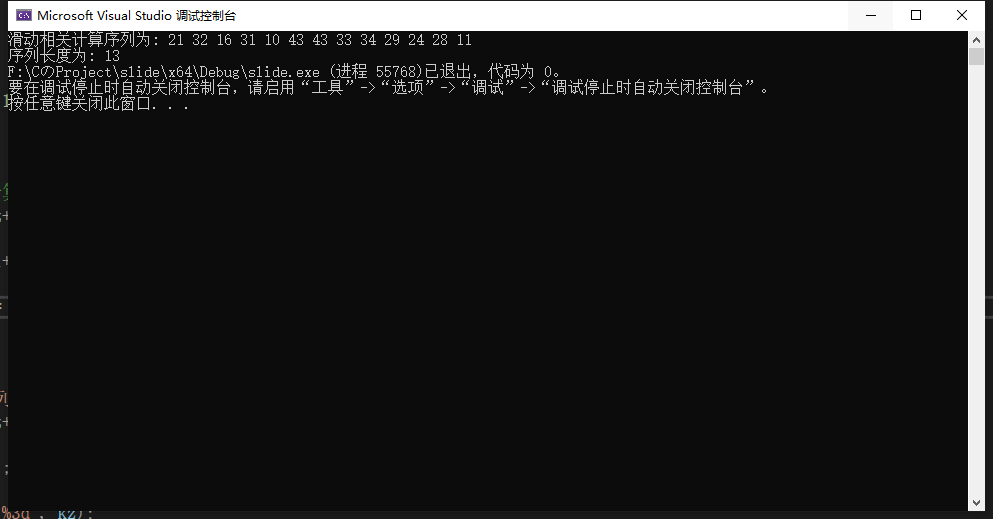
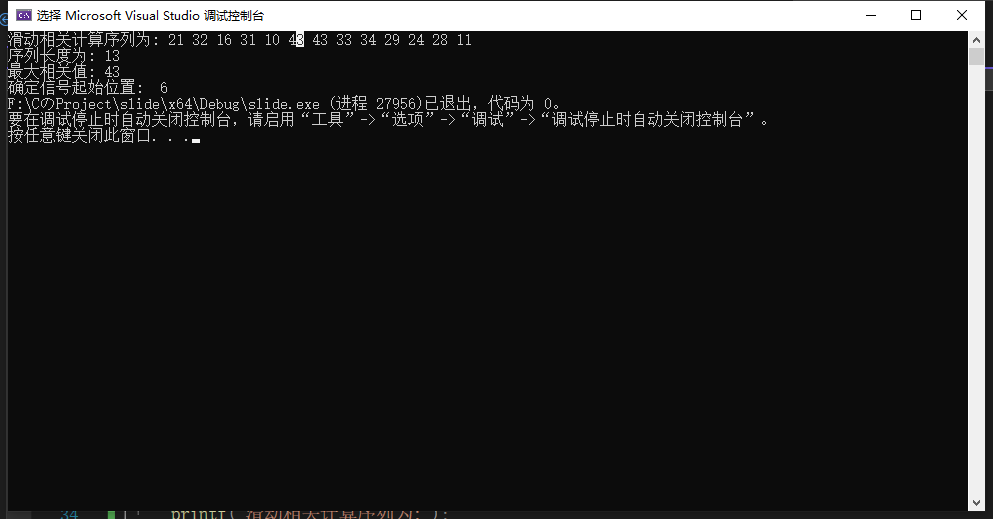
20220907

diff --git a/source/_posts/通信软件基础——滑动相关检测.md b/source/_posts/通信软件基础——滑动相关检测.md
@@ -37,6 +37,8 @@ comment: ture
 + $1×4+2×6+0×3+4×4=32$
 + 以此类推得到$n-m+1$长度的信号序列$z[k]$
 
+最后找出最大值及其位置也就是确定信号的起始位置。
+
 其算法C语言展现如下：（非最优）
 
 ```c
@@ -57,6 +59,8 @@ int main(void)
 	int i = 0;
 	int j = 0;
 	int kz = 0;//滑动相关计算序列哨兵
+	int max = 0;
+	int maxpos = 0;//确定型号的起始位置，也就是最大值的位置
 	for (kz = 0; kz < k; kz++)
 	{
 		for (i = 0; i < m;i++)
@@ -64,13 +68,21 @@ int main(void)
 			Z[kz] += X[i] * Y[i+j];
 		}
 		j++;
+		if (Z[kz] >= max)
+		{
+			max = Z[kz];
+			maxpos = kz;
+		}
 	}
+
 	printf("滑动相关计算序列为:");
 	for (kz = 0; kz < k; kz++)
 	{
 		printf("%3d",Z[kz]);
 	}
 	printf("\r\n序列长度为:%3d", kz);
+	printf("\r\n最大相关值:%3d", max);
+	printf("\r\n确定信号起始位置:%3d", maxpos);
 	return 0;
 }
 ```
